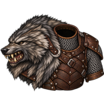
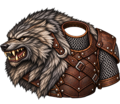
Broaden Moonfang shoulders and enlarge its wolf trophy

diff --git a/tests/direwolf-crafting.test.js b/tests/direwolf-crafting.test.js
@@ -118,7 +118,7 @@ test('the craft-only item stays out of normal stock and recipe copy describes ev
 });
 test('transparent icon and worn layers are packaged, aligned and available offline for ordinary/named armor', async () => {
   const cache = new Set(await listOfflineAssets());
-  for (const [name, width, height] of [['icon', 140, 280], ['portrait', 104, 94]]) {
+  for (const [name, width, height] of [['icon', 140, 280], ['portrait', 120, 104]]) {
     const path = `./assets/direwolf-moonfang/${name}.png`; const png = decodePng(readFileSync(new URL('../' + path, import.meta.url)));
     assert.deepEqual([png.width, png.height], [width, height]); assert.equal(png.rgba[3], 0);
     let transparent = 0, visible = 0; for (let i = 3; i < png.rgba.length; i += 4) png.rgba[i] === 0 ? transparent++ : visible++;
@@ -126,6 +126,6 @@ test('transparent icon and worn layers are packaged, aligned and available offli
   }
   for (const id of [MOONFANG_ID, createFamedItemId(MOONFANG_ID, 71, 7)]) {
     assert.equal(itemImage(getItem(id)), './assets/direwolf-moonfang/icon.png');
-    assert.match(portraitHTML({ name: 'Test', seed: 1 }, { armor: getItem(id) }), /data-layer="armor"[^>]*src="\.\/assets\/direwolf-moonfang\/portrait.png"[^>]*left:0px;top:20px/);
+    assert.match(portraitHTML({ name: 'Test', seed: 1 }, { armor: getItem(id) }), /data-layer="armor"[^>]*src="\.\/assets\/direwolf-moonfang\/portrait.png"[^>]*left:-10px;top:16px/);
   }
 });

diff --git a/src/direwolf-crafting.js b/src/direwolf-crafting.js
@@ -11,7 +11,7 @@ export const MOONFANG_ITEM = Object.freeze({
 });
 export const MOONFANG_ART = Object.freeze({
   icon: './assets/direwolf-moonfang/icon.png', portrait: './assets/direwolf-moonfang/portrait.png',
-  left: 0, top: 20, width: 104, height: 94,
+  left: -10, top: 16, width: 120, height: 104,
 });
 
 // Its own saved sequence: previews, material condition, town and other recipes

diff --git a/sw.js b/sw.js
@@ -1,5 +1,5 @@
 // Generated by tools/build-cache.mjs. Do not edit by hand.
-const CACHE = "ashen-company-b23cab992fa95700";
+const CACHE = "ashen-company-2fedd3f9b81ac4b7";
 const ASSETS = [
   "./",
   "./index.html",

diff --git a/design-qa.md b/design-qa.md
@@ -50,6 +50,14 @@ faces in `/workspace/ashen-armory-study/wolf-mask-check.png` and the complete
 helmet lineup at 160px and 80px. The intermediate higher mail rim covered the
 lower face and was replaced before delivery. Inventory icon and stats stay original.
 
+Moonfang shoulder revision: broadened the fur mantle, strengthened the mail-side
+shoulder and enlarged the snarling shoulder trophy. The worn layer is now 120x104
+at left-10/top16. Compared with original Direwolf Hide/Mail using the same Alpha
+helmet at 160px, 80px and 64px in
+`/workspace/ashen-armory-study/moonfang-shoulders-comparison.png`, and inspected
+all three helmets in the updated worn lineup. The wider body balances Alpha's
+crown; the wearer's eyes, mouth and jaw remain clear.
+
 No unresolved P0/P1/P2 findings. Physical-device Safari remains untested.
 
 final result: passed
